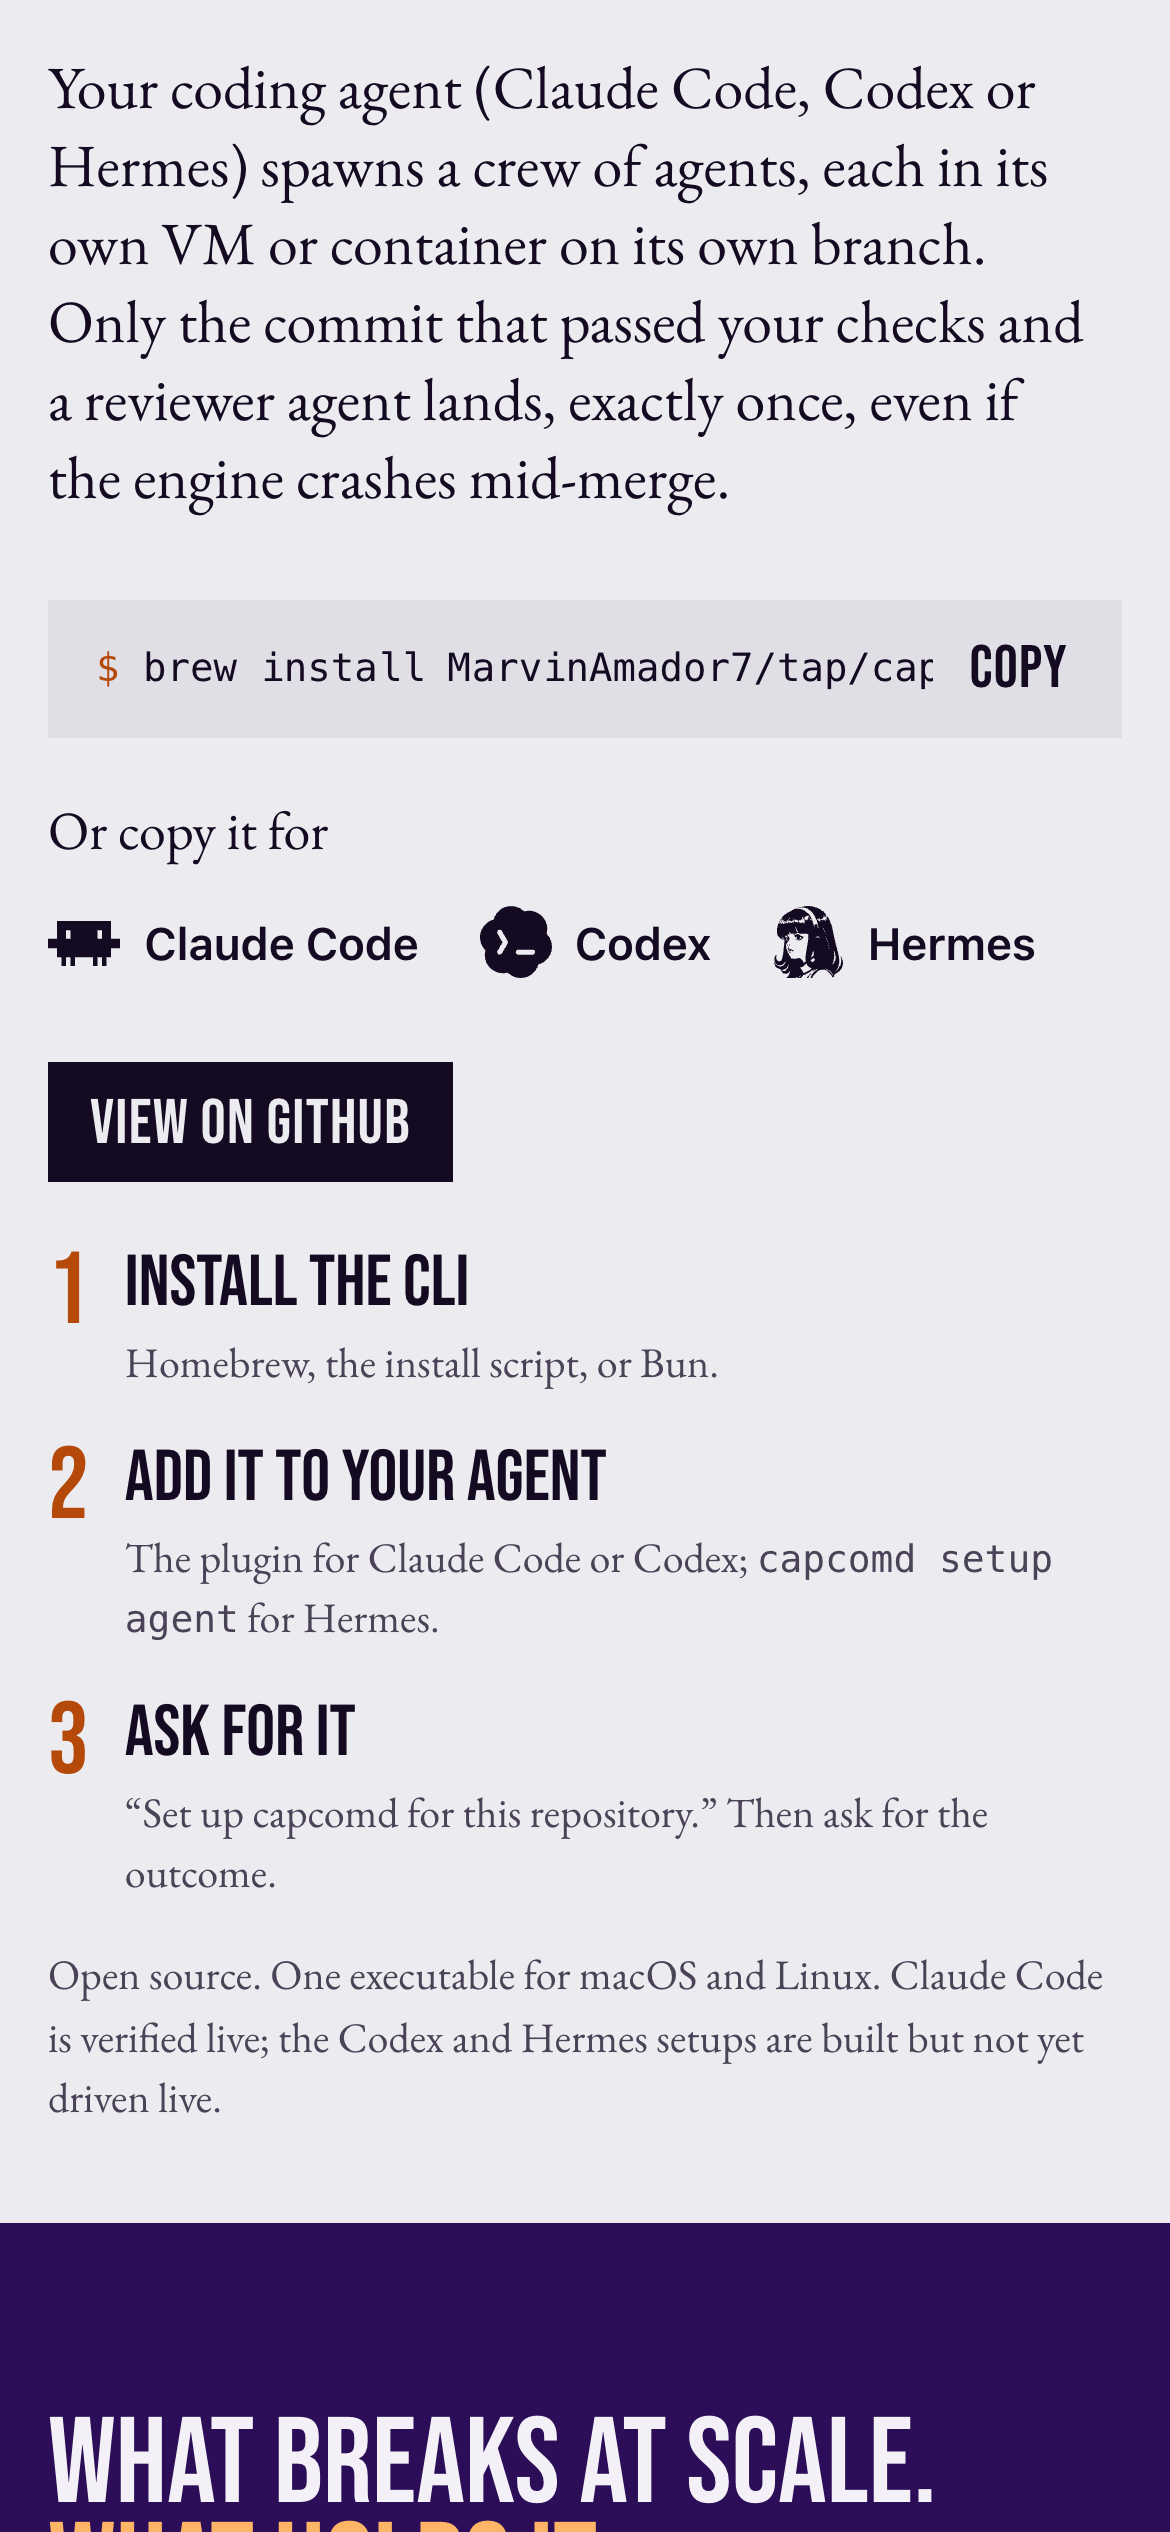
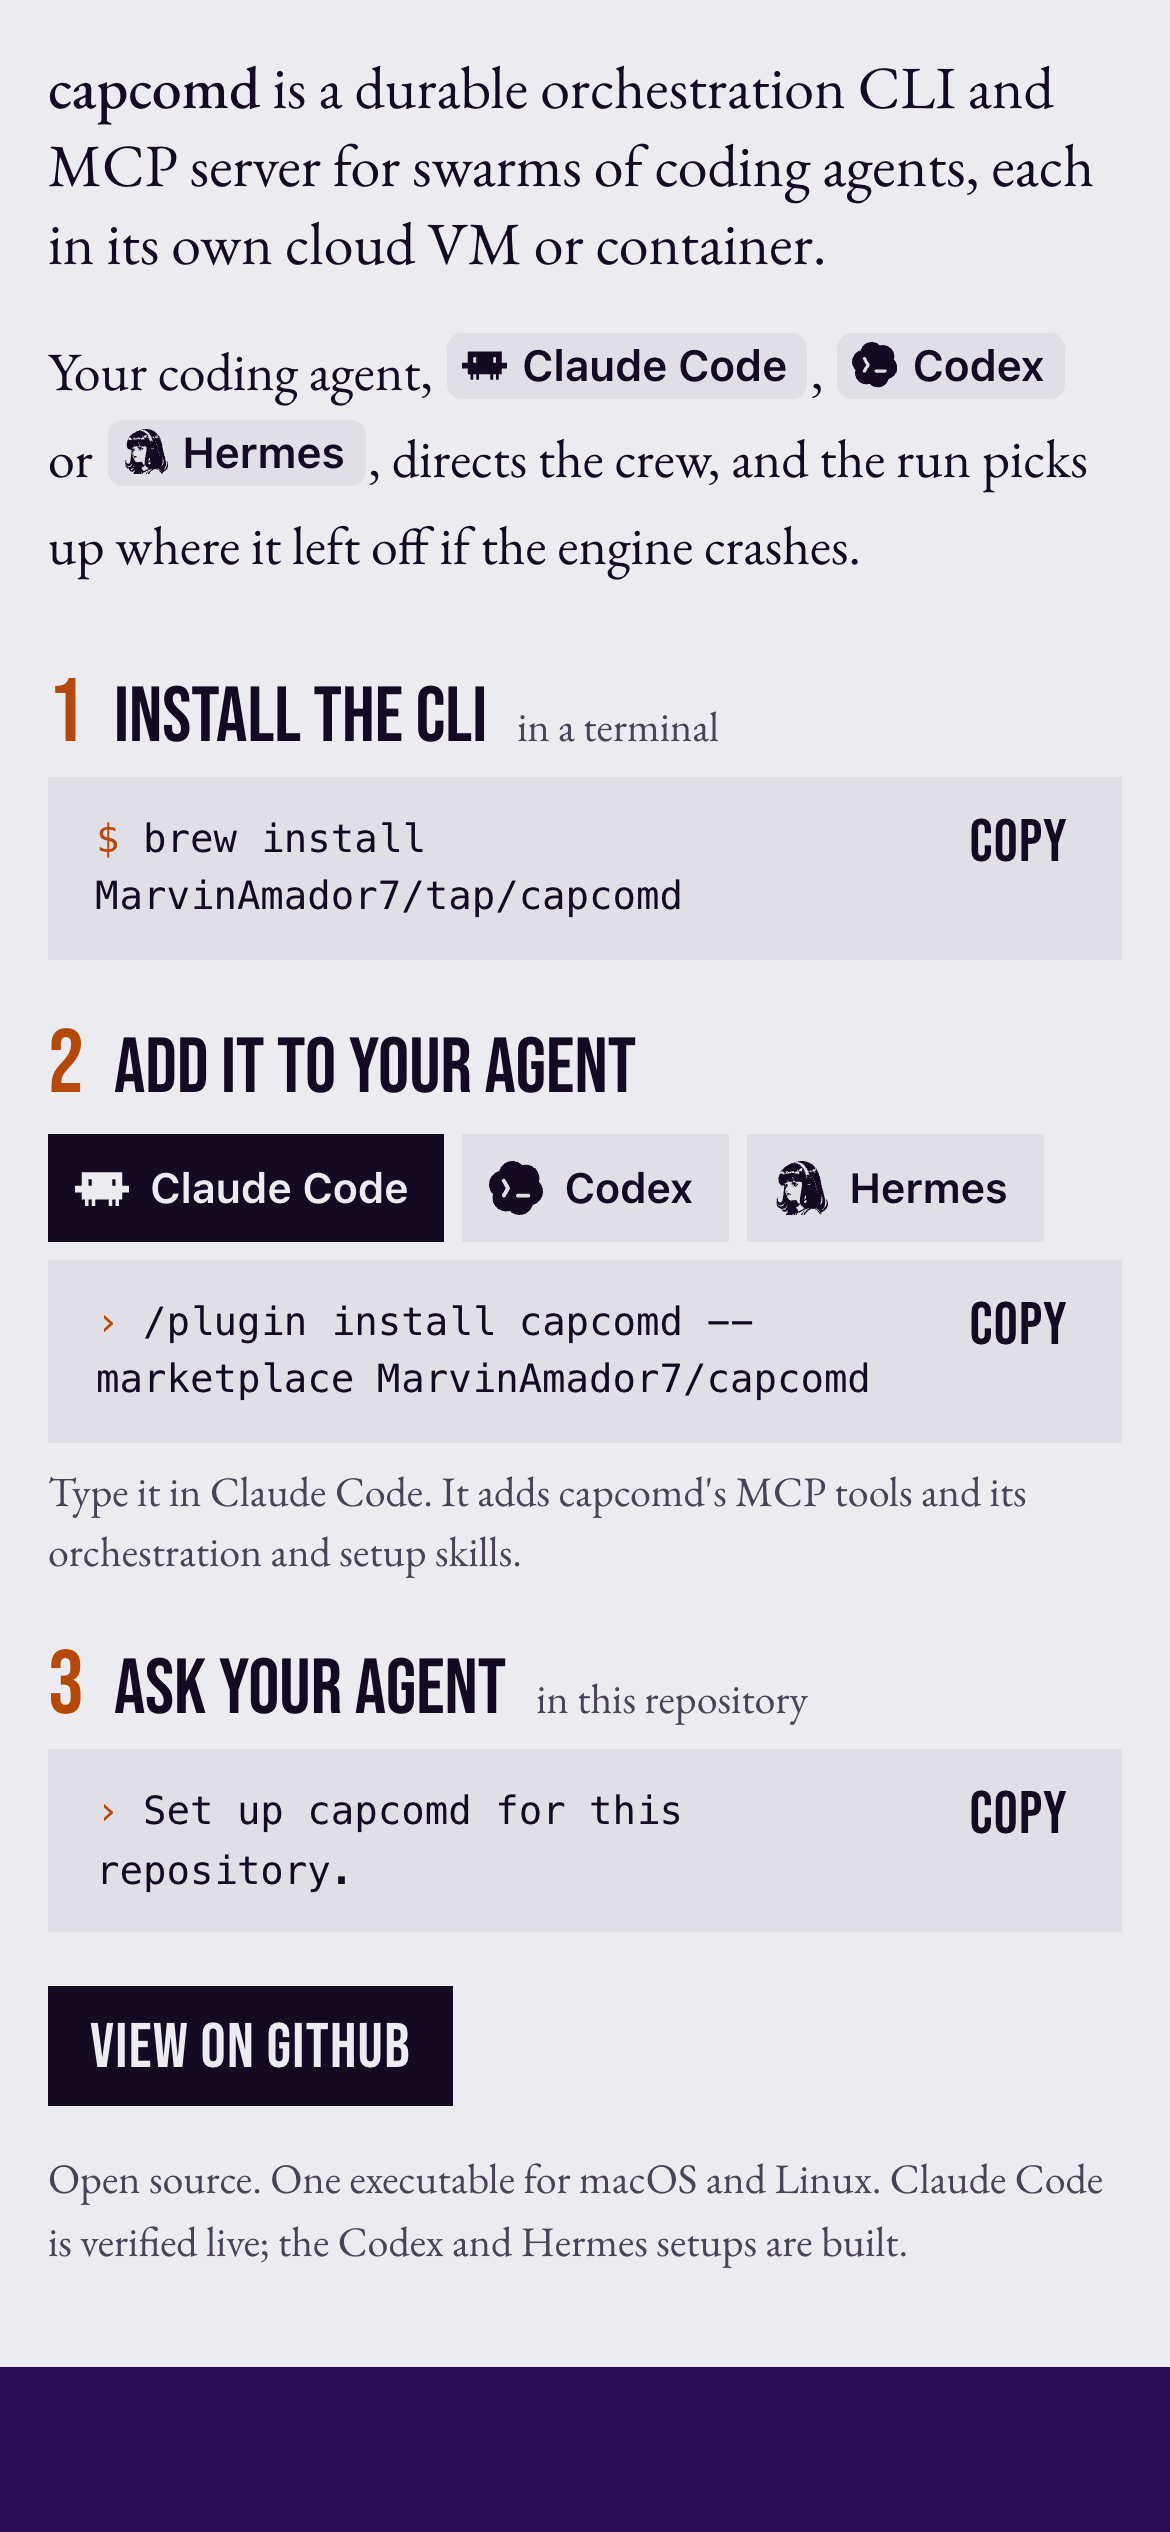
site: a two-line hero, with the agents' names as buttons into the install steps
"capcomd is a durable orchestration CLI and MCP server for swarms of coding
agents, each in its own cloud VM or container." Then: "Your coding agent,
Claude Code, Codex or Hermes, directs the crew, and the run picks up where it
left off if the engine crashes."

Each agent name is a small button with its mark. It picks that agent's tab in
step 2 of the install and brings the tab into view.

diff --git a/site/components/AgentInstall.tsx b/site/components/AgentInstall.tsx
@@ -24,10 +24,36 @@ async function copy(text: string): Promise<boolean> {
   } catch { return false; }
 }
 
+type AgentId = (typeof AGENTS)[number]["id"];
+const PICK = "capcomd:pick-agent";
+
+/** An agent's name with its mark, as a button: picks that agent's tab in the install steps and brings it into view. */
+export function AgentPick({ id }: { id: AgentId }) {
+  const a = AGENTS.find((x) => x.id === id)!;
+  return (
+    <button type="button" className="pick" aria-label={`${a.name}: show how to add capcomd to it`}
+      onClick={() => {
+        dispatchEvent(new CustomEvent(PICK, { detail: id }));
+        const tab = document.querySelector<HTMLElement>(`.hero__install .flow__tab[data-agent="${id}"]`);
+        tab?.scrollIntoView({ behavior: matchMedia("(prefers-reduced-motion: reduce)").matches ? "auto" : "smooth", block: "center" });
+        tab?.focus({ preventScroll: true });
+      }}>
+      <svg viewBox="0 0 24 24" fillRule="evenodd" aria-hidden="true" dangerouslySetInnerHTML={{ __html: AGENT_ICONS[id] }} />
+      {a.name}
+    </button>
+  );
+}
+
 /** The README's Quickstart as three rows, each with the exact command to copy and where to run it. Step 2 has a tab
  *  per agent. Without the script the Claude Code row is shown and every command can still be selected. */
 export function InstallFlow() {
-  const [agent, setAgent] = useState<(typeof AGENTS)[number]["id"]>("claude");
+  const [agent, setAgent] = useState<AgentId>("claude");
+  // The agent names in the hero's sentence pick a tab here (AgentPick).
+  useEffect(() => {
+    const on = (e: Event) => setAgent((e as CustomEvent<AgentId>).detail);
+    addEventListener(PICK, on);
+    return () => removeEventListener(PICK, on);
+  }, []);
   const a = AGENTS.find((x) => x.id === agent)!;
   return (
     <ol className="flow">
@@ -41,7 +67,7 @@ export function InstallFlow() {
           <div className="flow__tabs" role="radiogroup" aria-label="Your agent">
             {AGENTS.map((x, k) => (
               <button key={x.id} type="button" role="radio" aria-checked={agent === x.id} tabIndex={agent === x.id ? 0 : -1}
-                className={`flow__tab${agent === x.id ? " is-on" : ""}`} onClick={() => setAgent(x.id)}
+                className={`flow__tab${agent === x.id ? " is-on" : ""}`} data-agent={x.id} onClick={() => setAgent(x.id)}
                 onKeyDown={(e) => {
                   const d = e.key === "ArrowRight" || e.key === "ArrowDown" ? 1 : e.key === "ArrowLeft" || e.key === "ArrowUp" ? -1 : 0;
                   if (!d) return;

diff --git a/site/components/Hero.tsx b/site/components/Hero.tsx
@@ -1,4 +1,4 @@
-import { InstallFlow } from "./AgentInstall";
+import { AgentPick, InstallFlow } from "./AgentInstall";
 import { HeroCrew } from "./crew";
 import { delay } from "./marks";
 import { Nav } from "./Nav";
@@ -18,7 +18,10 @@ export function Hero() {
 
       <div className="hero__foot">
         <p className="hero__lead" data-load style={delay(420)}>
-          Your coding agent (Claude Code, Codex or Hermes) spawns a crew of agents, each in its own VM or container on its own branch. Only the commit that passed your checks and a reviewer agent lands, exactly once, even if the engine crashes mid-merge.
+          <b>capcomd</b> is a durable orchestration CLI and MCP server for swarms of coding agents, each in its own cloud VM or container.
+        </p>
+        <p className="hero__sub" data-load style={delay(460)}>
+          Your coding agent, <AgentPick id="claude" />, <AgentPick id="codex" /> or <AgentPick id="hermes" />, directs the crew, and the run picks up where it left off if the engine crashes.
         </p>
         <div className="hero__install" data-load style={delay(500)} id="install">
           <InstallFlow />

diff --git a/site/app/globals.css b/site/app/globals.css
@@ -1165,3 +1165,12 @@ html:not(.js) .stage__title { display: block; }
   .flow .cmd__text { white-space: normal; overflow-wrap: anywhere; line-height: 1.5; }
   .flow .cmd__copy { margin-top: -6px; }
 }
+
+/* The hero's second line, with the agents' names as buttons that pick their install tab. */
+.hero__sub { grid-column: 1 / span 9; margin: 16px 0 0; max-width: 62ch; font-size: var(--text-body); line-height: 1.6; color: var(--color-ink); }
+.pick { all: unset; cursor: pointer; display: inline-flex; align-items: center; gap: 5px; padding: 0 7px 0 5px; margin: 0 1px; border-radius: 5px; background: var(--color-surface); font: 600 0.8em/1.55 var(--font-ui); color: var(--color-ink); vertical-align: 0.06em; transition: background-color 160ms ease, color 160ms ease, transform 140ms var(--ease-out); }
+.pick svg { width: 1.05em; height: 1.05em; fill: currentColor; }
+.pick:hover { background: var(--color-ink); color: var(--color-paper); }
+.pick:active { transform: scale(0.97); }
+.pick:focus-visible { outline: 3px solid var(--color-ink); outline-offset: 2px; }
+@media (max-width: 1100px) { .hero__sub { grid-column: 1 / -1; } }
